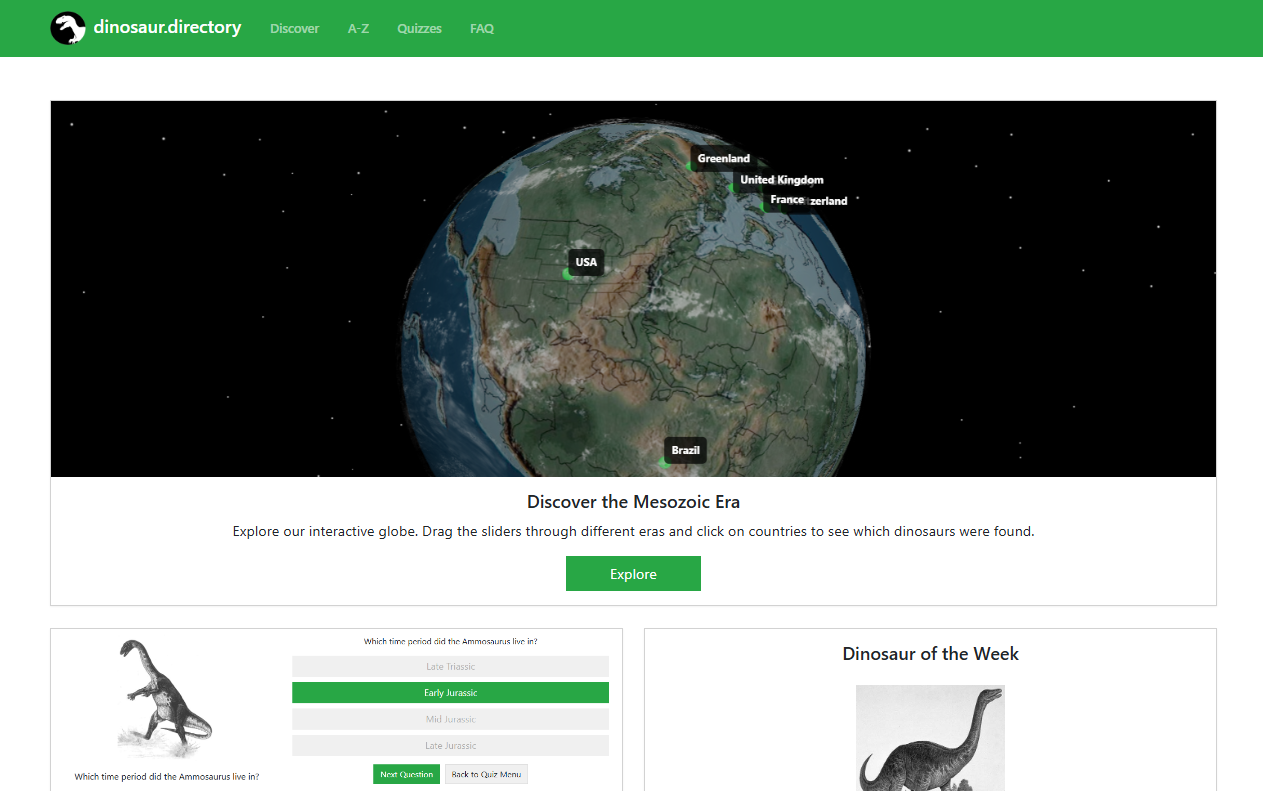
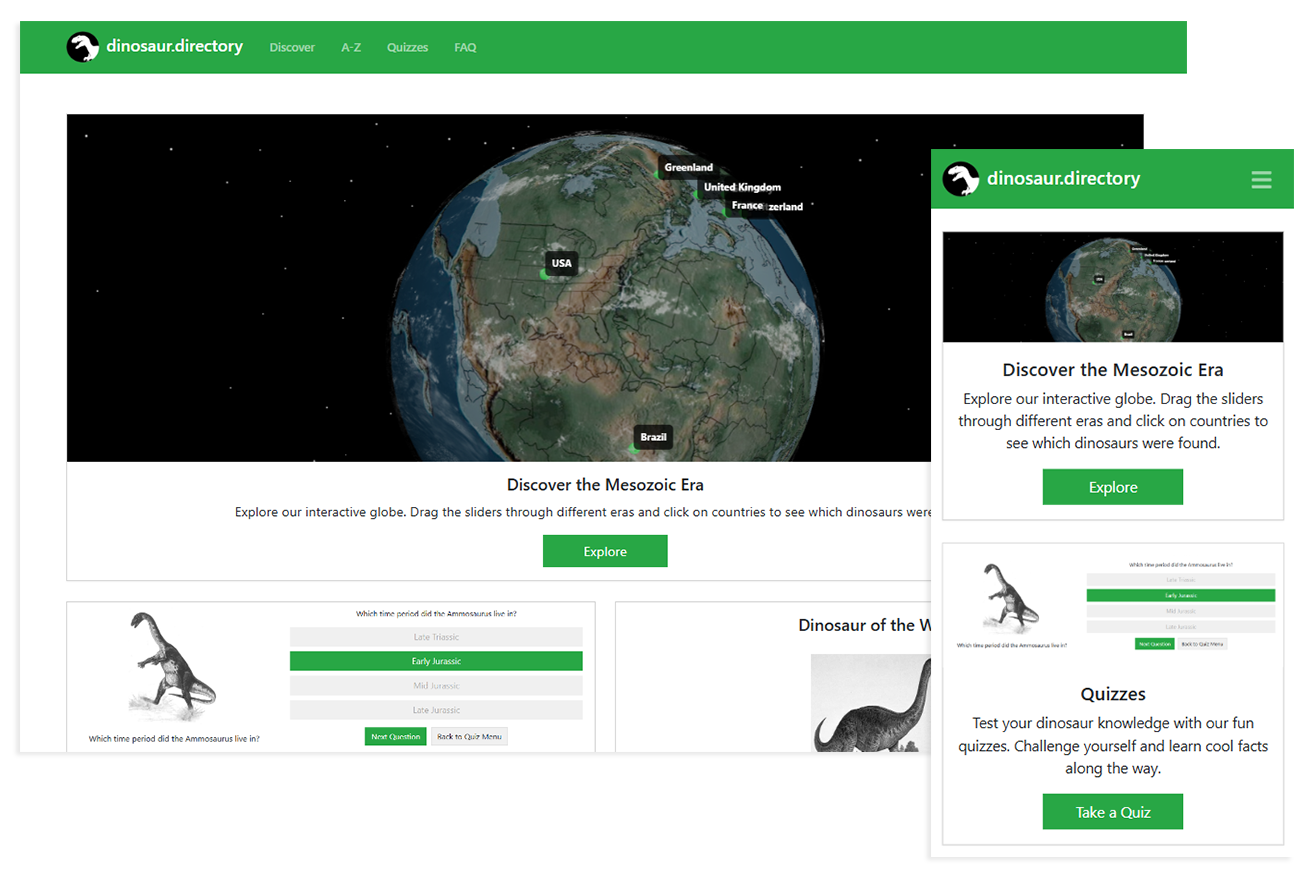
showcase assets update

diff --git a/README.md b/README.md
@@ -13,8 +13,7 @@ Built with:
   - Highlights the Dinosaur of the Week.
   - Banners linking to main sections.
 
-![ScreenShot](/showcase/home.png)
-![ScreenShot](/showcase/home-mobile.png)
+![ScreenShot](/showcase/home2.png)
 
 - **Discover Page:**
   - Interactive 3D globe to explore the Mesozoic era.
@@ -38,10 +37,7 @@ Built with:
     - **Trivia:** Text-based questions.
     - **Guess Correct Image:** Identify the correct dinosaur image.
 
-![ScreenShot](/showcase/quizzes1.png)
-![ScreenShot](/showcase/quizzes2.png)
-![ScreenShot](/showcase/quizzes3.png)
-![ScreenShot](/showcase/quizzes4.png)
+![ScreenShot](/showcase/quizzes.png)
 
 - **FAQ Page:**
   - Frequently asked questions about dinosaurs and the application.
